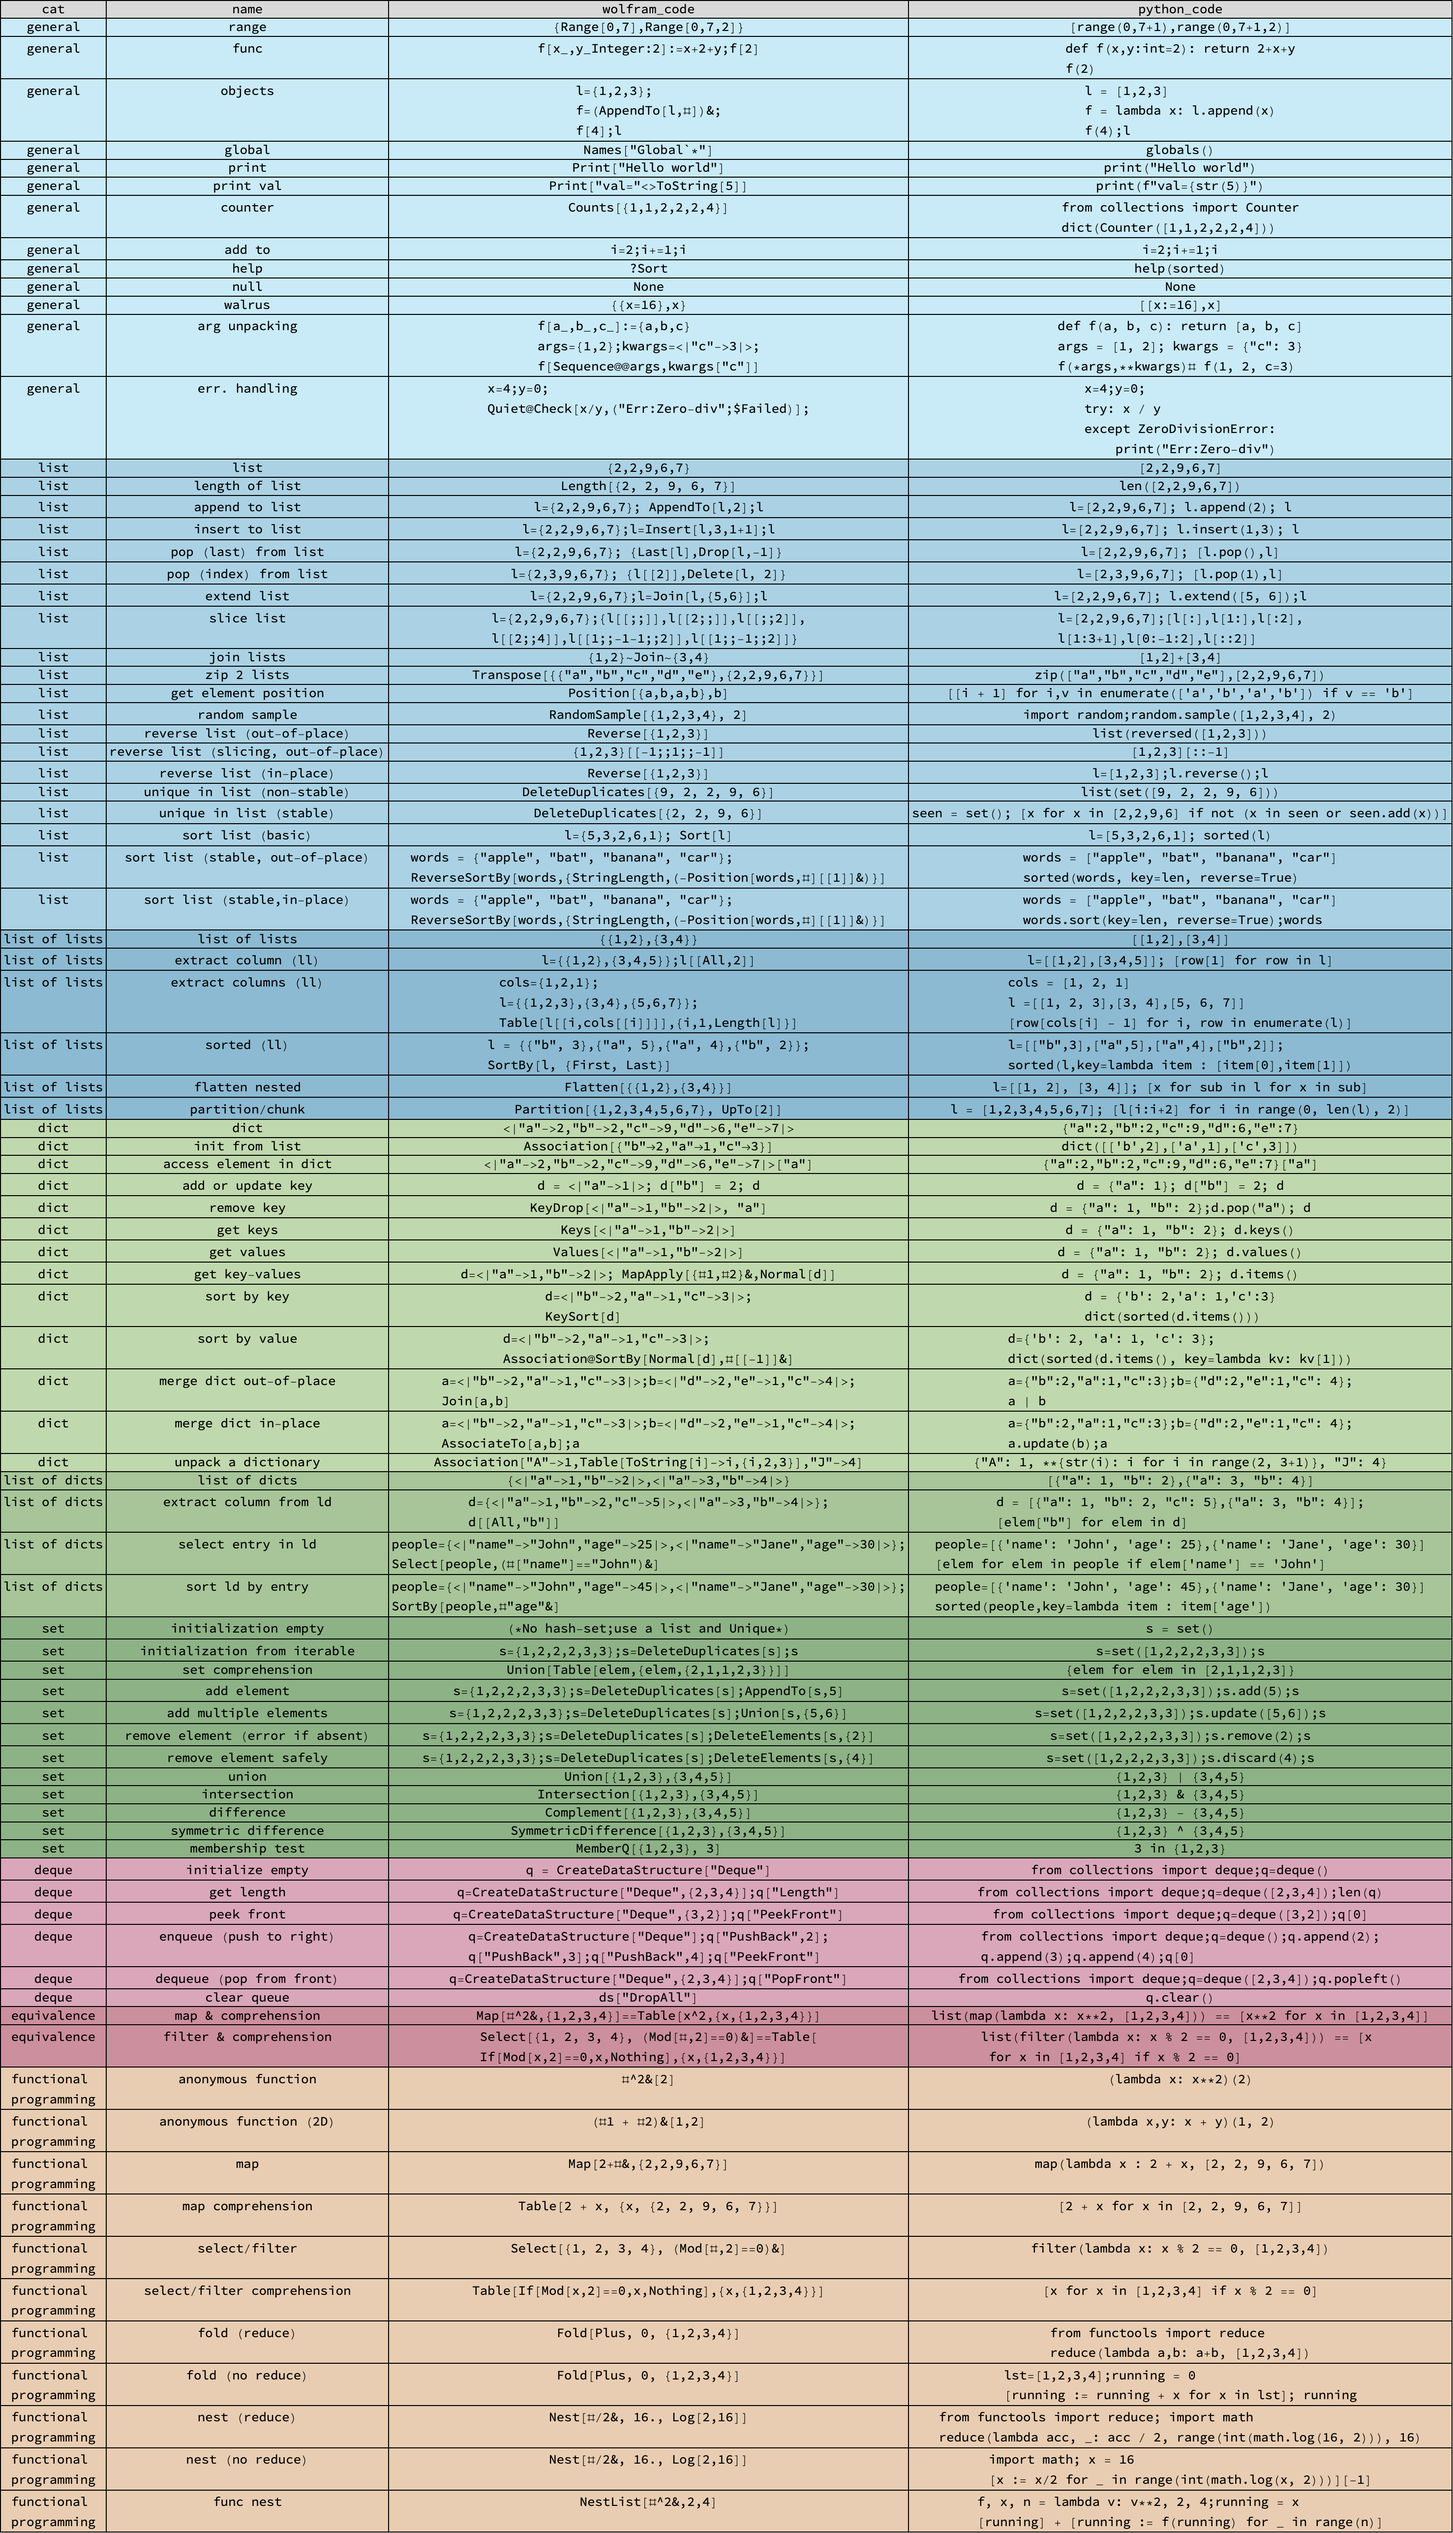
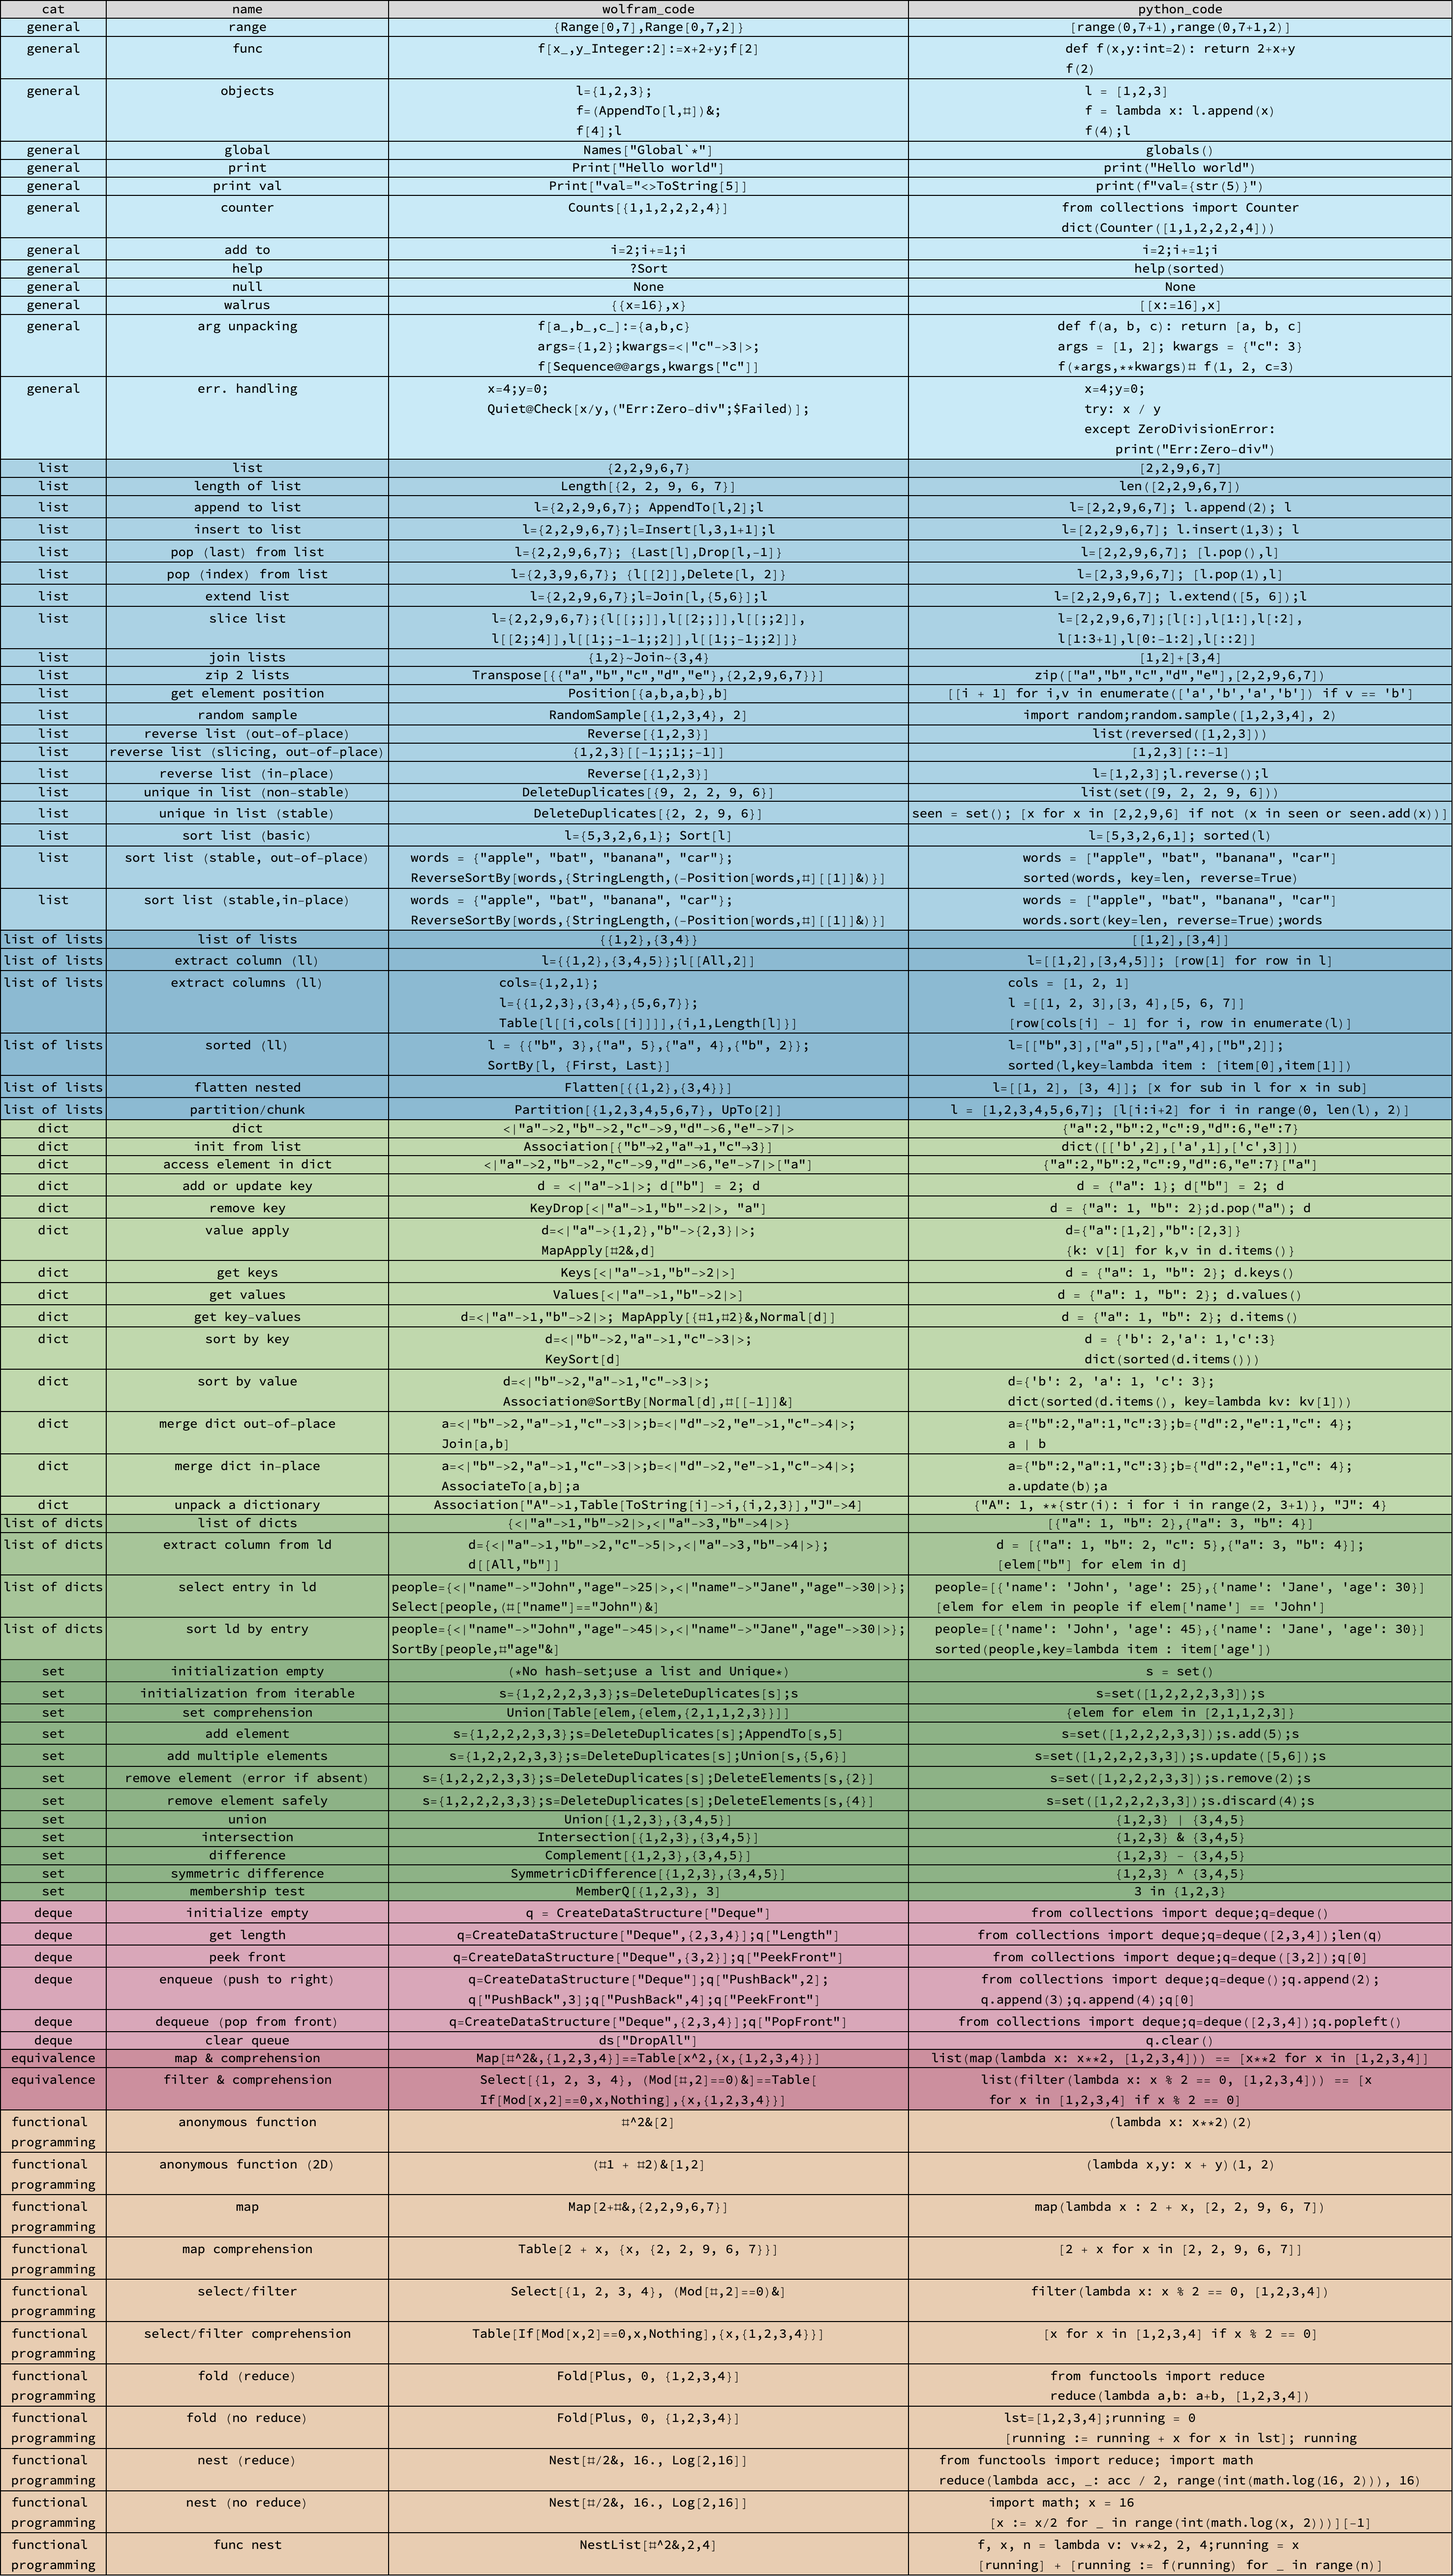
Add new code

Changed region(s): [[0.0, 0.0, 1.0, 0.9946], [0.9032, 0.9946, 0.9343, 1.0]]

diff --git a/README.md b/README.md
@@ -8,6 +8,7 @@ Welcome to **Wolfram ↔ Python**, a quick reference guide that mirrors common W
 :---:|:---|:---
 range|<pre>{Range[0,7],Range[0,7,2]}</pre>|<pre>[range(0,7+1),range(0,7+1,2)]</pre>
 func|<pre>f[x_,y_Integer:2]:=x+2+y;f[2]</pre>|<pre>def f(x,y:int=2): return 2+x+y<br/>f(2)<br/></pre>
+objects|<pre>l={1,2,3};<br/>f=(AppendTo[l,#])&;<br/>f[4];l<br/></pre>|<pre>l = [1,2,3]<br/>f = lambda x: l.append(x)<br/>f(4);l<br/></pre>
 global|<pre>Names["Global`*"]</pre>|<pre>globals()</pre>
 print|<pre>Print["Hello world"]</pre>|<pre>print("Hello world")</pre>
 print val|<pre>Print["val="<>ToString[5]]</pre>|<pre>print(f"val={str(5)}")</pre>
@@ -64,6 +65,7 @@ init from list|<pre>Association[{"b"2,"a"1,"c"3}]</pre>|<pre>dict([['b'
 access element in dict|<pre><\|"a"->2,"b"->2,"c"->9,"d"->6,"e"->7\|>["a"]</pre>|<pre>{"a":2,"b":2,"c":9,"d":6,"e":7}["a"]</pre>
 add or update key|<pre>d = <\|"a"->1\|>; d["b"] = 2; d</pre>|<pre>d = {"a": 1}; d["b"] = 2; d</pre>
 remove key|<pre>KeyDrop[<\|"a"->1,"b"->2\|>, "a"]</pre>|<pre>d = {"a": 1, "b": 2};d.pop("a"); d</pre>
+value apply|<pre>d=<\|"a"->{1,2},"b"->{2,3}\|>;<br/>MapApply[#2&,d]<br/></pre>|<pre>d={"a":[1,2],"b":[2,3]}<br/>{k: v[1] for k,v in d.items()}<br/></pre>
 get keys|<pre>Keys[<\|"a"->1,"b"->2\|>]</pre>|<pre>d = {"a": 1, "b": 2}; d.keys()</pre>
 get values|<pre>Values[<\|"a"->1,"b"->2\|>]</pre>|<pre>d = {"a": 1, "b": 2}; d.values()</pre>
 get key-values|<pre>d=<\|"a"->1,"b"->2\|>; MapApply[{#1,#2}&,Normal[d]]</pre>|<pre>d = {"a": 1, "b": 2}; d.items()</pre>
@@ -88,6 +90,7 @@ sort ld by entry|<pre>people={<\|"name"->"John","age"->45\|>,<\|"name"->"Jane","
 :---:|:---|:---
 initialization empty|<pre>(*No hash-set;use a list and Unique*)</pre>|<pre>s = set()</pre>
 initialization from iterable|<pre>s={1,2,2,2,3,3};s=DeleteDuplicates[s];s</pre>|<pre>s=set([1,2,2,2,3,3]);s</pre>
+set comprehension|<pre>Union[Table[elem,{elem,{2,1,1,2,3}}]]</pre>|<pre>{elem for elem in [2,1,1,2,3]}</pre>
 add element|<pre>s={1,2,2,2,3,3};s=DeleteDuplicates[s];AppendTo[s,5]</pre>|<pre>s=set([1,2,2,2,3,3]);s.add(5);s</pre>
 add multiple elements|<pre>s={1,2,2,2,3,3};s=DeleteDuplicates[s];Union[s,{5,6}]</pre>|<pre>s=set([1,2,2,2,3,3]);s.update([5,6]);s</pre>
 remove element (error if absent)|<pre>s={1,2,2,2,3,3};s=DeleteDuplicates[s];DeleteElements[s,{2}]</pre>|<pre>s=set([1,2,2,2,3,3]);s.remove(2);s</pre>
@@ -186,7 +189,8 @@ reshape|<pre>m={{1,2},{3,4}};<br/>{ArrayReshape[m,{1,4}],ArrayReshape[m,{4,1}]}<
 :---:|:---|:---
 torch array|<pre>{{1,2},{3,4}}</pre>|<pre>import torch<br/>torch.tensor([[1,2],[3,4]]).tolist()<br/></pre>
 torch reshape|<pre>m={{1,2},{3,4}};<br/>{ArrayReshape[m,{1,4}],ArrayReshape[m,{4,1}],<br/>ArrayReshape[m,{1,4}],ArrayReshape[m,{4,1}]}<br/></pre>|<pre>import torch<br/>m=torch.tensor([[1,2],[3,4]])<br/>[m.reshape(1,4).tolist(),m.reshape(4,1).tolist(),<br/> m.view(1,4).tolist(),m.view(4,1).tolist()]<br/></pre>
-nn|<pre>hiddenDim=5;outputDim=1;<br/>net=NetInitialize[NetChain[{LinearLayer[hiddenDim],<br/> Ramp,LinearLayer[outputDim]},"Input"->2]];<br/>output=net[{1.0,2.0}]<br/></pre>|<pre>import torch.nn as nn<br/>hidden_dim=5;output_dim=1;<br/>net=nn.Sequential(nn.Linear(2, hidden_dim),<br/> nn.ReLU(),nn.Linear(hidden_dim, output_dim))<br/>output=net(torch.tensor([1.0, 2.0]))<br/></pre>
+torch nn|<pre>hiddenDim=5;outputDim=1;<br/>net=NetInitialize[NetChain[{LinearLayer[hiddenDim],<br/> Ramp,LinearLayer[outputDim]},"Input"->2]];<br/>output=net[{1.0,2.0}]<br/></pre>|<pre>import torch.nn as nn<br/>hidden_dim=5;output_dim=1;<br/>net=nn.Sequential(nn.Linear(2, hidden_dim),<br/> nn.ReLU(),nn.Linear(hidden_dim, output_dim))<br/>output=net(torch.tensor([1.0, 2.0]))<br/></pre>
+gather|<pre>piLogits={{{1.2,0.5},{0.1,-1.0}}};<br/>labels={{1,2}}; logProbs=Log[SoftmaxLayer[-1]/@piLogits];Table[logProbs[[b,i,labels[[b,i]]]],<br/>{b,1,Length[labels]},{i,1,Length[labels[[b]]]}]<br/></pre>|<pre>import torch<br/>import torch.nn.functional as F<br/>pi_logits=torch.tensor([[[1.2,0.5],[0.1,-1.0]]])<br/>labels=torch.tensor([[0,1]])<br/>log_probs=F.log_softmax(pi_logits, dim=-1)<br/>pi_log_probs=torch.gather(log_probs,dim=-1,<br/>    index=labels.unsqueeze(-1)).squeeze(-1)<br/>pi_log_probs.tolist()<br/></pre>
 
 ## String
 
